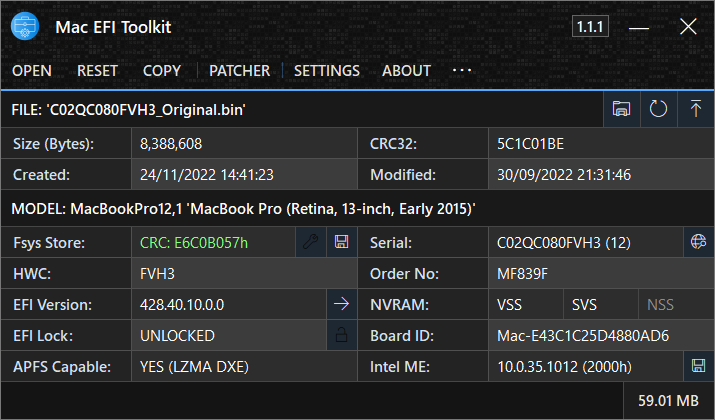
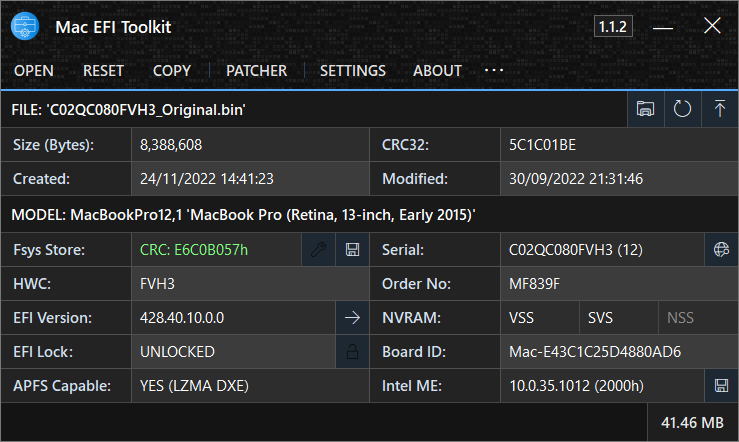
Scaling issues resolved.

diff --git a/mefit/WinForms/infoWindow.Designer.cs b/mefit/WinForms/infoWindow.Designer.cs
@@ -82,7 +82,7 @@ namespace Mac_EFI_Toolkit.WinForms
             this.tlpTitle.Name = "tlpTitle";
             this.tlpTitle.RowCount = 1;
             this.tlpTitle.RowStyles.Add(new System.Windows.Forms.RowStyle(System.Windows.Forms.SizeType.Percent, 100F));
-            this.tlpTitle.Size = new System.Drawing.Size(478, 40);
+            this.tlpTitle.Size = new System.Drawing.Size(418, 40);
             this.tlpTitle.TabIndex = 73;
             // 
             // pbxLogo
@@ -107,7 +107,7 @@ namespace Mac_EFI_Toolkit.WinForms
             this.lblTitle.Location = new System.Drawing.Point(40, 0);
             this.lblTitle.Margin = new System.Windows.Forms.Padding(0);
             this.lblTitle.Name = "lblTitle";
-            this.lblTitle.Size = new System.Drawing.Size(398, 40);
+            this.lblTitle.Size = new System.Drawing.Size(338, 40);
             this.lblTitle.TabIndex = 12;
             this.lblTitle.Text = "ROM Information";
             this.lblTitle.TextAlign = System.Drawing.ContentAlignment.MiddleLeft;
@@ -124,7 +124,7 @@ namespace Mac_EFI_Toolkit.WinForms
             this.cmdClose.FlatStyle = System.Windows.Forms.FlatStyle.Flat;
             this.cmdClose.Font = new System.Drawing.Font("Segoe UI", 10.8F, System.Drawing.FontStyle.Regular, System.Drawing.GraphicsUnit.Point, ((byte)(0)));
             this.cmdClose.ForeColor = System.Drawing.Color.White;
-            this.cmdClose.Location = new System.Drawing.Point(438, 0);
+            this.cmdClose.Location = new System.Drawing.Point(378, 0);
             this.cmdClose.Margin = new System.Windows.Forms.Padding(0);
             this.cmdClose.MaximumSize = new System.Drawing.Size(40, 40);
             this.cmdClose.MinimumSize = new System.Drawing.Size(40, 40);
@@ -145,7 +145,7 @@ namespace Mac_EFI_Toolkit.WinForms
             this.pnlSeperator.Location = new System.Drawing.Point(1, 41);
             this.pnlSeperator.Margin = new System.Windows.Forms.Padding(2);
             this.pnlSeperator.Name = "pnlSeperator";
-            this.pnlSeperator.Size = new System.Drawing.Size(478, 2);
+            this.pnlSeperator.Size = new System.Drawing.Size(418, 2);
             this.pnlSeperator.TabIndex = 95;
             // 
             // pnlMain
@@ -156,7 +156,7 @@ namespace Mac_EFI_Toolkit.WinForms
             this.pnlMain.Location = new System.Drawing.Point(1, 43);
             this.pnlMain.Margin = new System.Windows.Forms.Padding(2);
             this.pnlMain.Name = "pnlMain";
-            this.pnlMain.Size = new System.Drawing.Size(478, 374);
+            this.pnlMain.Size = new System.Drawing.Size(418, 374);
             this.pnlMain.TabIndex = 96;
             // 
             // tlpMain
@@ -173,7 +173,7 @@ namespace Mac_EFI_Toolkit.WinForms
             this.tlpMain.RowStyles.Add(new System.Windows.Forms.RowStyle(System.Windows.Forms.SizeType.Absolute, 339F));
             this.tlpMain.RowStyles.Add(new System.Windows.Forms.RowStyle(System.Windows.Forms.SizeType.Absolute, 1F));
             this.tlpMain.RowStyles.Add(new System.Windows.Forms.RowStyle(System.Windows.Forms.SizeType.Percent, 100F));
-            this.tlpMain.Size = new System.Drawing.Size(478, 374);
+            this.tlpMain.Size = new System.Drawing.Size(418, 374);
             this.tlpMain.TabIndex = 2;
             // 
             // lblSectionData
@@ -187,7 +187,7 @@ namespace Mac_EFI_Toolkit.WinForms
             this.lblSectionData.Margin = new System.Windows.Forms.Padding(0);
             this.lblSectionData.Name = "lblSectionData";
             this.lblSectionData.Padding = new System.Windows.Forms.Padding(8, 0, 0, 0);
-            this.lblSectionData.Size = new System.Drawing.Size(478, 34);
+            this.lblSectionData.Size = new System.Drawing.Size(418, 34);
             this.lblSectionData.TabIndex = 101;
             this.lblSectionData.Text = "...";
             this.lblSectionData.TextAlign = System.Drawing.ContentAlignment.MiddleLeft;
@@ -242,7 +242,7 @@ namespace Mac_EFI_Toolkit.WinForms
             this.tlpInfo.RowStyles.Add(new System.Windows.Forms.RowStyle(System.Windows.Forms.SizeType.Percent, 10F));
             this.tlpInfo.RowStyles.Add(new System.Windows.Forms.RowStyle(System.Windows.Forms.SizeType.Absolute, 1F));
             this.tlpInfo.RowStyles.Add(new System.Windows.Forms.RowStyle(System.Windows.Forms.SizeType.Percent, 10F));
-            this.tlpInfo.Size = new System.Drawing.Size(478, 339);
+            this.tlpInfo.Size = new System.Drawing.Size(418, 339);
             this.tlpInfo.TabIndex = 0;
             // 
             // lblBiosIdText
@@ -406,7 +406,7 @@ namespace Mac_EFI_Toolkit.WinForms
             this.lblBiosId.Margin = new System.Windows.Forms.Padding(0);
             this.lblBiosId.Name = "lblBiosId";
             this.lblBiosId.Padding = new System.Windows.Forms.Padding(4, 0, 0, 0);
-            this.lblBiosId.Size = new System.Drawing.Size(347, 33);
+            this.lblBiosId.Size = new System.Drawing.Size(287, 33);
             this.lblBiosId.TabIndex = 100;
             this.lblBiosId.TextAlign = System.Drawing.ContentAlignment.MiddleLeft;
             // 
@@ -421,7 +421,7 @@ namespace Mac_EFI_Toolkit.WinForms
             this.lblModel.Margin = new System.Windows.Forms.Padding(0);
             this.lblModel.Name = "lblModel";
             this.lblModel.Padding = new System.Windows.Forms.Padding(4, 0, 0, 0);
-            this.lblModel.Size = new System.Drawing.Size(347, 33);
+            this.lblModel.Size = new System.Drawing.Size(287, 33);
             this.lblModel.TabIndex = 101;
             this.lblModel.TextAlign = System.Drawing.ContentAlignment.MiddleLeft;
             // 
@@ -436,7 +436,7 @@ namespace Mac_EFI_Toolkit.WinForms
             this.lblEfiVersion.Margin = new System.Windows.Forms.Padding(0);
             this.lblEfiVersion.Name = "lblEfiVersion";
             this.lblEfiVersion.Padding = new System.Windows.Forms.Padding(4, 0, 0, 0);
-            this.lblEfiVersion.Size = new System.Drawing.Size(347, 33);
+            this.lblEfiVersion.Size = new System.Drawing.Size(287, 33);
             this.lblEfiVersion.TabIndex = 102;
             this.lblEfiVersion.TextAlign = System.Drawing.ContentAlignment.MiddleLeft;
             // 
@@ -451,7 +451,7 @@ namespace Mac_EFI_Toolkit.WinForms
             this.lblBuiltBy.Margin = new System.Windows.Forms.Padding(0);
             this.lblBuiltBy.Name = "lblBuiltBy";
             this.lblBuiltBy.Padding = new System.Windows.Forms.Padding(4, 0, 0, 0);
-            this.lblBuiltBy.Size = new System.Drawing.Size(347, 33);
+            this.lblBuiltBy.Size = new System.Drawing.Size(287, 33);
             this.lblBuiltBy.TabIndex = 103;
             this.lblBuiltBy.TextAlign = System.Drawing.ContentAlignment.MiddleLeft;
             // 
@@ -466,7 +466,7 @@ namespace Mac_EFI_Toolkit.WinForms
             this.lblDateStamp.Margin = new System.Windows.Forms.Padding(0);
             this.lblDateStamp.Name = "lblDateStamp";
             this.lblDateStamp.Padding = new System.Windows.Forms.Padding(4, 0, 0, 0);
-            this.lblDateStamp.Size = new System.Drawing.Size(347, 33);
+            this.lblDateStamp.Size = new System.Drawing.Size(287, 33);
             this.lblDateStamp.TabIndex = 104;
             this.lblDateStamp.TextAlign = System.Drawing.ContentAlignment.MiddleLeft;
             // 
@@ -481,7 +481,7 @@ namespace Mac_EFI_Toolkit.WinForms
             this.lblRevision.Margin = new System.Windows.Forms.Padding(0);
             this.lblRevision.Name = "lblRevision";
             this.lblRevision.Padding = new System.Windows.Forms.Padding(4, 0, 0, 0);
-            this.lblRevision.Size = new System.Drawing.Size(347, 33);
+            this.lblRevision.Size = new System.Drawing.Size(287, 33);
             this.lblRevision.TabIndex = 105;
             this.lblRevision.TextAlign = System.Drawing.ContentAlignment.MiddleLeft;
             // 
@@ -496,7 +496,7 @@ namespace Mac_EFI_Toolkit.WinForms
             this.lblBootRom.Margin = new System.Windows.Forms.Padding(0);
             this.lblBootRom.Name = "lblBootRom";
             this.lblBootRom.Padding = new System.Windows.Forms.Padding(4, 0, 0, 0);
-            this.lblBootRom.Size = new System.Drawing.Size(347, 33);
+            this.lblBootRom.Size = new System.Drawing.Size(287, 33);
             this.lblBootRom.TabIndex = 106;
             this.lblBootRom.TextAlign = System.Drawing.ContentAlignment.MiddleLeft;
             // 
@@ -511,7 +511,7 @@ namespace Mac_EFI_Toolkit.WinForms
             this.lblBuildcaveId.Margin = new System.Windows.Forms.Padding(0);
             this.lblBuildcaveId.Name = "lblBuildcaveId";
             this.lblBuildcaveId.Padding = new System.Windows.Forms.Padding(4, 0, 0, 0);
-            this.lblBuildcaveId.Size = new System.Drawing.Size(347, 33);
+            this.lblBuildcaveId.Size = new System.Drawing.Size(287, 33);
             this.lblBuildcaveId.TabIndex = 107;
             this.lblBuildcaveId.TextAlign = System.Drawing.ContentAlignment.MiddleLeft;
             // 
@@ -526,7 +526,7 @@ namespace Mac_EFI_Toolkit.WinForms
             this.lblBuildType.Margin = new System.Windows.Forms.Padding(0);
             this.lblBuildType.Name = "lblBuildType";
             this.lblBuildType.Padding = new System.Windows.Forms.Padding(4, 0, 0, 0);
-            this.lblBuildType.Size = new System.Drawing.Size(347, 33);
+            this.lblBuildType.Size = new System.Drawing.Size(287, 33);
             this.lblBuildType.TabIndex = 108;
             this.lblBuildType.TextAlign = System.Drawing.ContentAlignment.MiddleLeft;
             // 
@@ -541,7 +541,7 @@ namespace Mac_EFI_Toolkit.WinForms
             this.lblCompiler.Margin = new System.Windows.Forms.Padding(0);
             this.lblCompiler.Name = "lblCompiler";
             this.lblCompiler.Padding = new System.Windows.Forms.Padding(4, 0, 0, 0);
-            this.lblCompiler.Size = new System.Drawing.Size(347, 33);
+            this.lblCompiler.Size = new System.Drawing.Size(287, 33);
             this.lblCompiler.TabIndex = 109;
             // 
             // infoWindow
@@ -551,7 +551,7 @@ namespace Mac_EFI_Toolkit.WinForms
             this.AutoSize = true;
             this.AutoSizeMode = System.Windows.Forms.AutoSizeMode.GrowAndShrink;
             this.BackColor = System.Drawing.Color.FromArgb(((int)(((byte)(120)))), ((int)(((byte)(120)))), ((int)(((byte)(120)))));
-            this.ClientSize = new System.Drawing.Size(480, 418);
+            this.ClientSize = new System.Drawing.Size(420, 418);
             this.Controls.Add(this.pnlMain);
             this.Controls.Add(this.pnlSeperator);
             this.Controls.Add(this.tlpTitle);
@@ -560,7 +560,7 @@ namespace Mac_EFI_Toolkit.WinForms
             this.KeyPreview = true;
             this.Margin = new System.Windows.Forms.Padding(2);
             this.MaximizeBox = false;
-            this.MinimumSize = new System.Drawing.Size(480, 418);
+            this.MinimumSize = new System.Drawing.Size(420, 418);
             this.Name = "infoWindow";
             this.Padding = new System.Windows.Forms.Padding(1);
             this.StartPosition = System.Windows.Forms.FormStartPosition.CenterParent;

diff --git a/mefit/WinForms/settingsWindow.cs b/mefit/WinForms/settingsWindow.cs
@@ -147,7 +147,7 @@ namespace Mac_EFI_Toolkit.WinForms
         private void cmdDefaults_Click(object sender, EventArgs e)
         {
             DialogResult result =
-                METMessageBox.Show(this, "Settings", "This will revert all settings to default," +
+                METMessageBox.Show(this, "Settings", "This will revert all settings to default, " +
                 "are you sure you want to set default settings?", METMessageType.Warning, METMessageButtons.YesNo);
 
             if (result != DialogResult.Yes)

diff --git a/README.md b/README.md
@@ -17,8 +17,6 @@ Mac EFI Toolkit V1.1.2
 
 ## About
 
-> 🛠 Currently working to fix scaling issues at 100%. Changes should be resolved in a coming update.
-
 Mac EFI Toolkit, or 'mefit', is a valuable tool built to aid technicians in repairing Mac BIOS/UEFI. Designed to be compact, mefit provides information gathering capabilities and limited editing functionality.
 
 Key features of the information gathering capabilities include detecting EFI lock in the NVRAM, identifying if the APFS DXE driver is present; even if located in an LZMA compressed volume, validating file sizes and calculating size discrepancy bytes, and viewing the firmware version.
